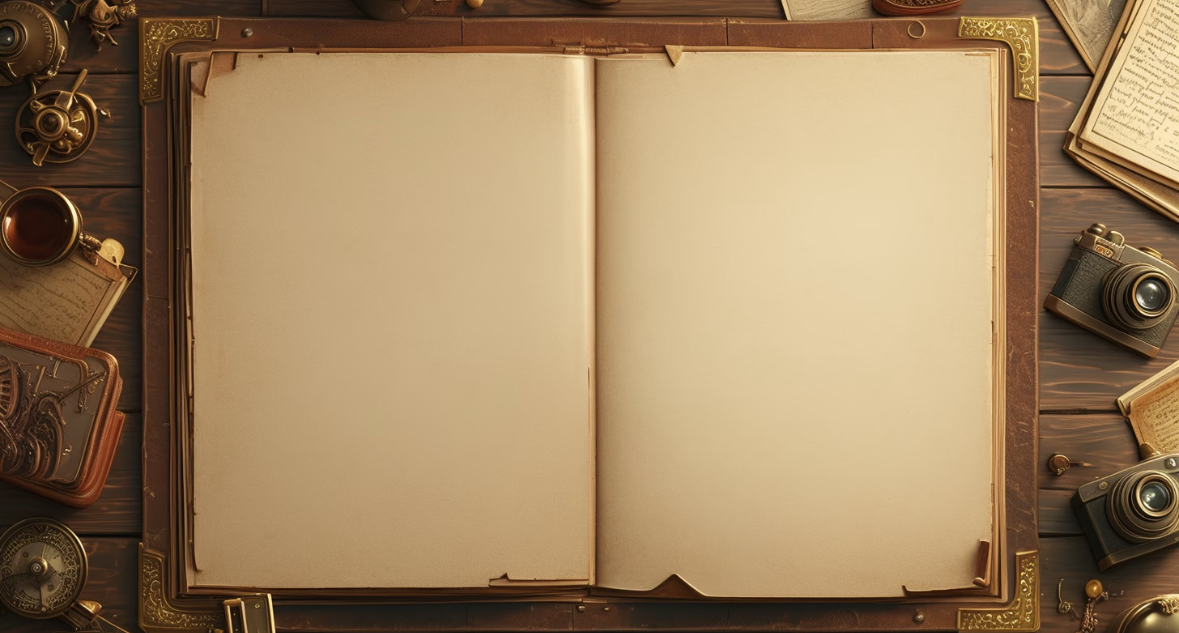
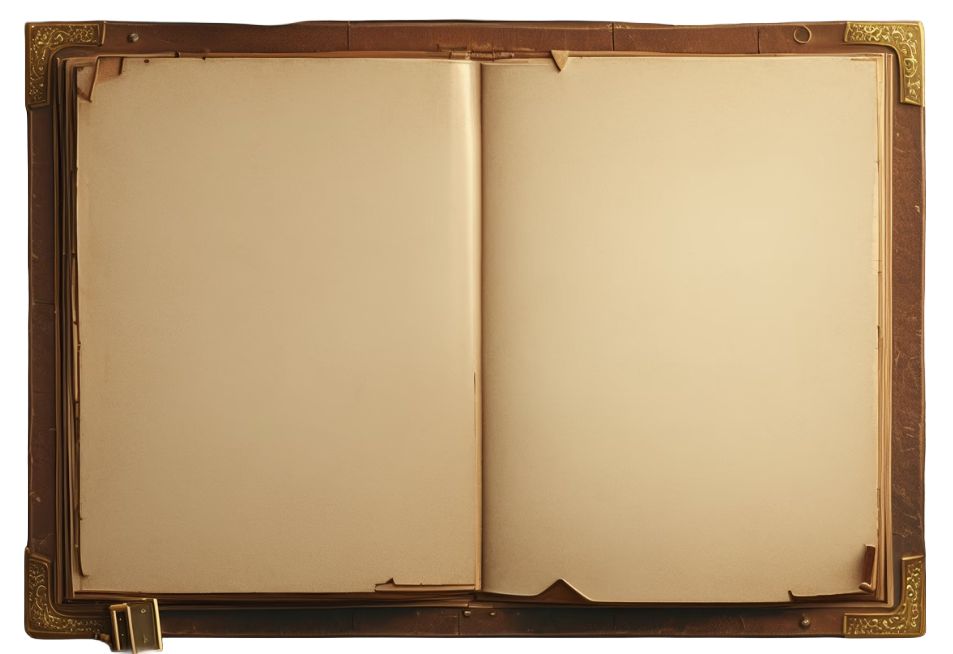
style7_1: 优化游戏指南UI，实现透明书本边缘的真实投影与融合
1.视觉Bug修复：清理了 `.guide-box` 中原有的 `box-shadow` 和 `overflow: hidden` 属性，彻底消除了透明 PNG 书本背景图周围违和的“矩形发光”与生硬边框。
2.沉浸感提升：引入 `filter: drop-shadow` 滤镜，使底层阴影能够精准识别并贴合书本图片的不规则破损轮廓，呈现出逼真的 3D 悬浮投影效果。
3.界面融合：优化了游戏初始引导弹窗与底层暗黑系地图背景的视觉融合度，进一步强化了古典 RPG 的代入感。

diff --git a/webapp/index.html b/webapp/index.html
@@ -358,8 +358,13 @@
     .guide-overlay.show { opacity: 1; }
     .guide-box {
       position: relative; width: 780px; max-width: 95vw;
-      border-radius: 16px; overflow: hidden;
-      box-shadow: 0 0 60px rgba(212, 175, 55, 0.3), 0 12px 40px rgba(0,0,0,0.6);
+      /* 【核心修改 1】删除了原有的 border-radius 和 overflow: hidden，防止图片边缘被一刀切 */
+      /* 【核心修改 2】彻底移除了产生矩形发光的 box-shadow */
+      box-shadow: none;
+      background: transparent;
+
+      /* 【核心修改 3】使用 drop-shadow，它会自动识别你 PNG 书本的不规则边缘，投射出真实的立体阴影 */
+      filter: drop-shadow(0 15px 30px rgba(0, 0, 0, 0.8));
     }
     .guide-box img { display: block; width: 100%; height: auto; }
     .guide-page {